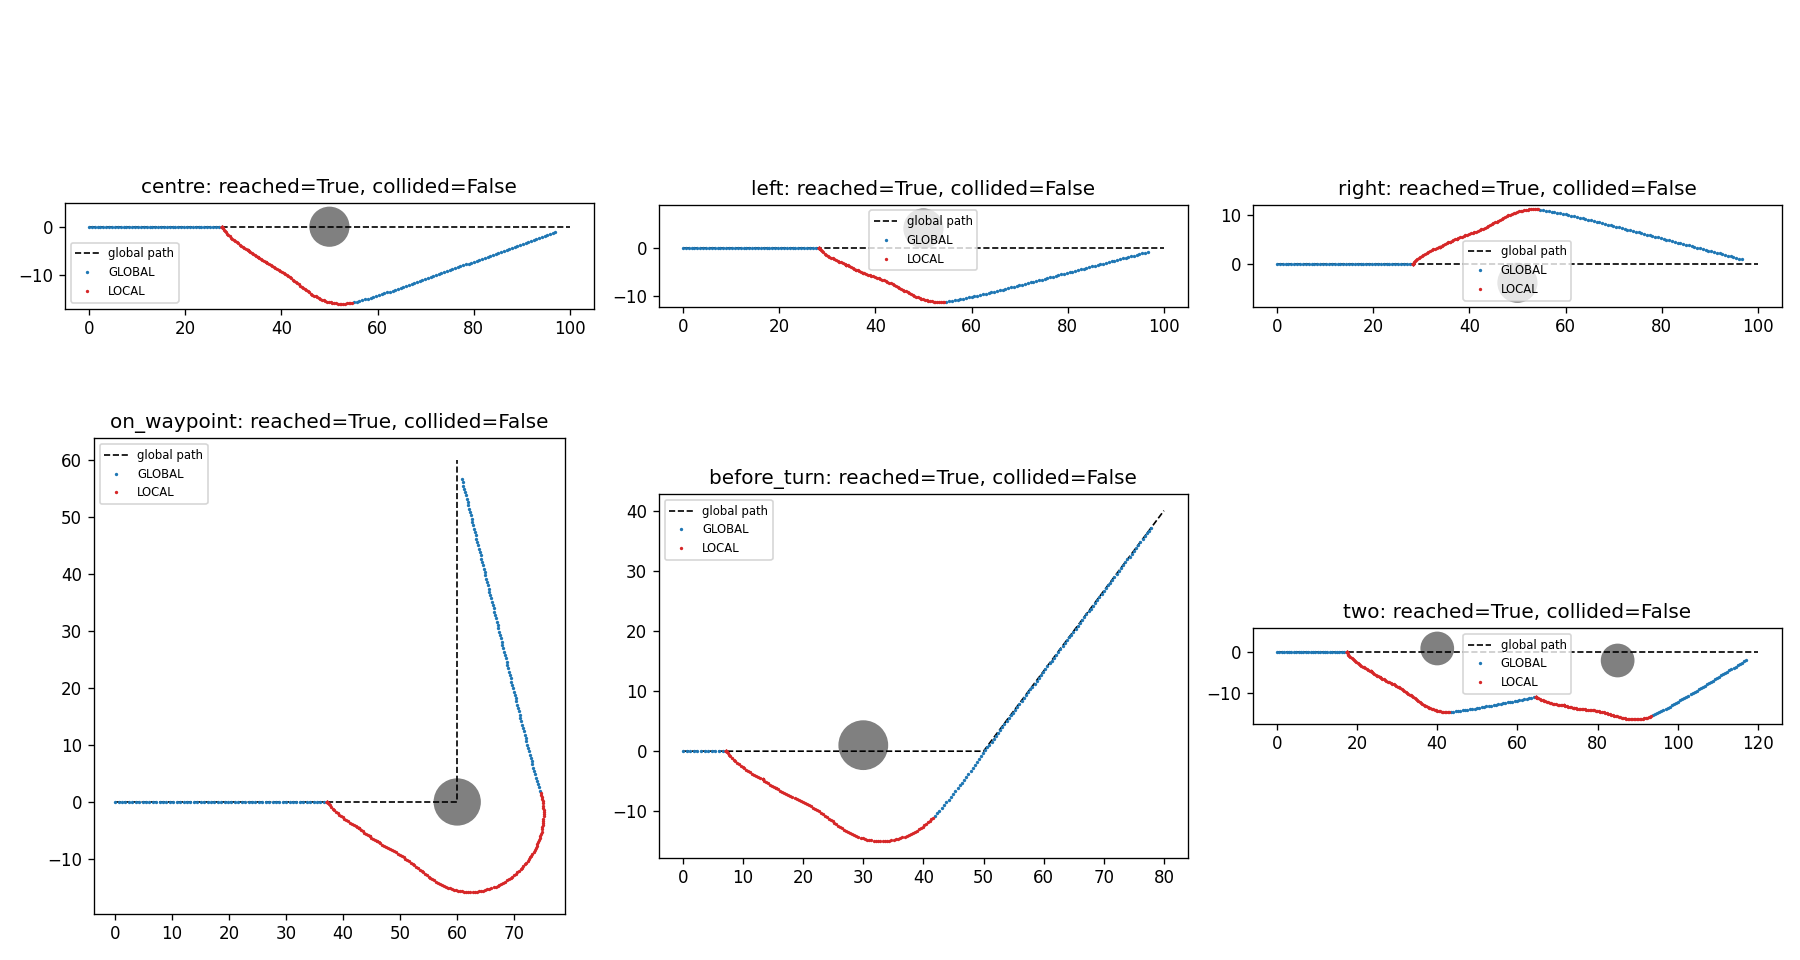
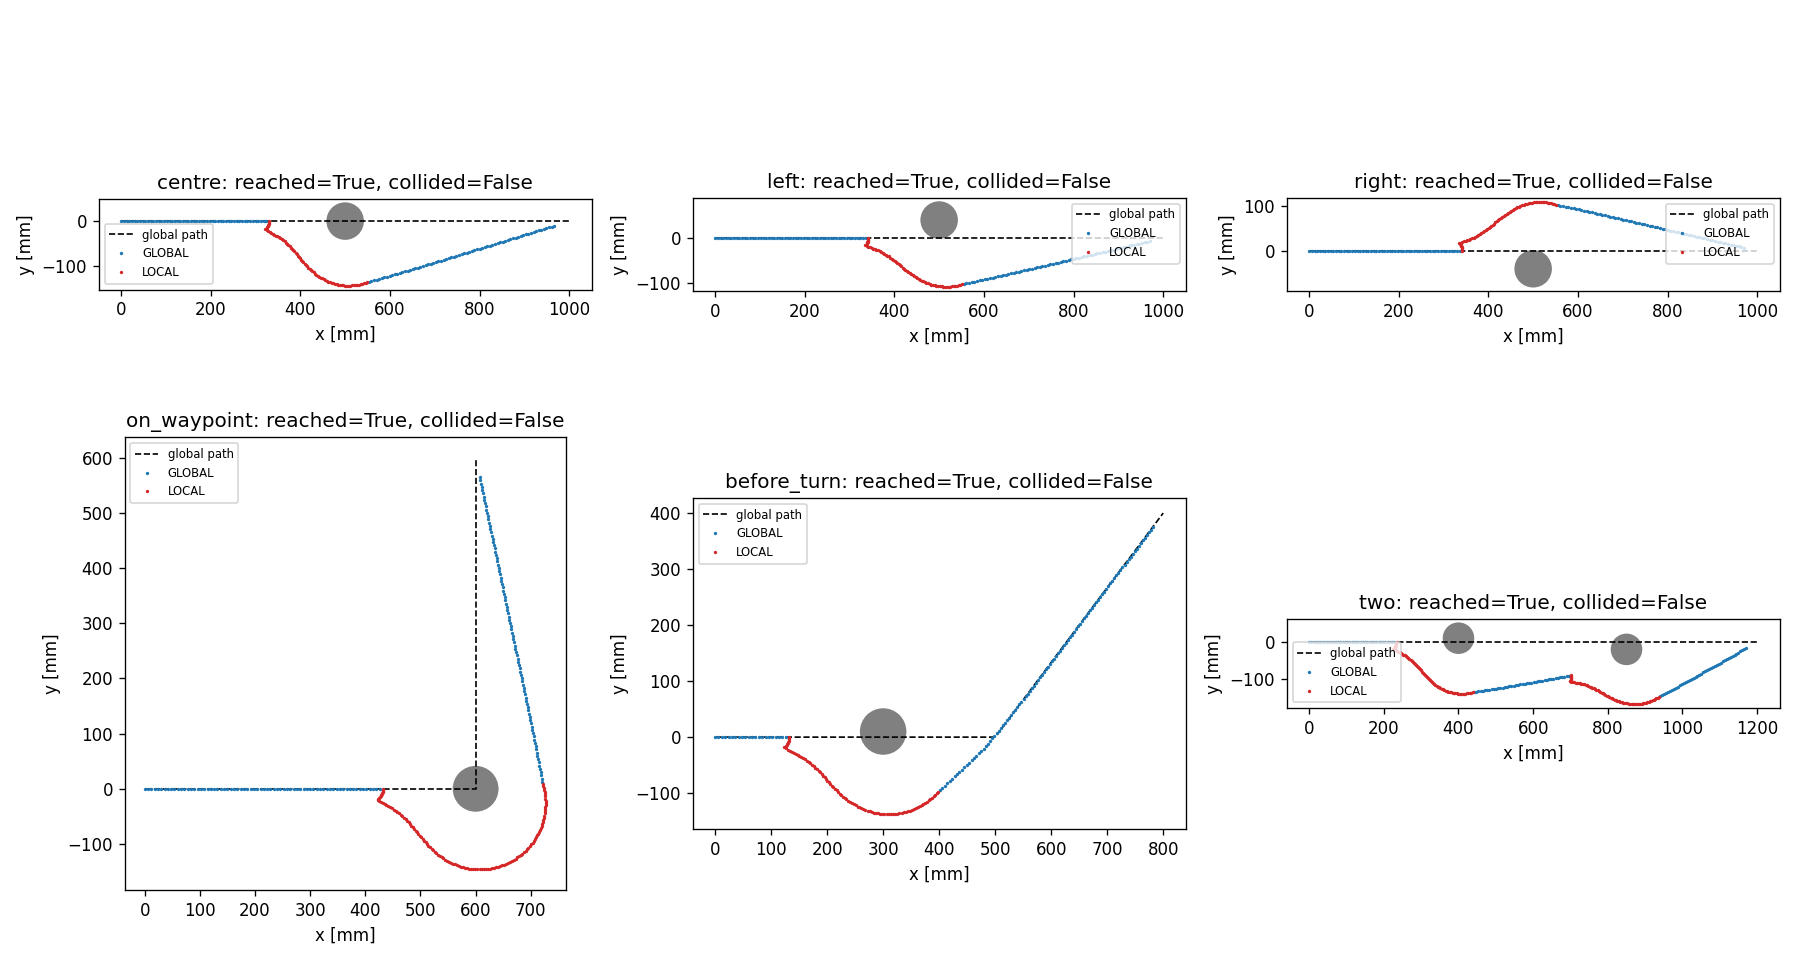
convert to mm and body-center pose

diff --git a/local_navigation/local_navigation_sim.py b/local_navigation/local_navigation_sim.py
@@ -2,13 +2,12 @@
 local_navigation_sim.py
 Tests local_navigation.py without the Thymio: a simulated robot with
 simulated proximity sensors drives along a path with circular obstacles.
+Units: mm and rad. The robot moves around its wheel axle, but the module
+receives the pose of the body centre, as given by vision.
 
 Run:  python local_navigation_sim.py
 It prints, for each scenario, whether the goal was reached and whether the
 robot touched an obstacle, then saves local_navigation_sim_results.png.
-
-The constants still set to ... in local_navigation.py are replaced by test
-values (TEST_VALUES below). Values you already measured are kept.
 """
 
 import math
@@ -18,36 +17,29 @@ import matplotlib.pyplot as plt
 import local_navigation as ln
 from local_navigation import LocalNavigation, next_waypoint_index, angle_to
 
-TEST_VALUES = {
-    "ENTER_THRESHOLD": 2000,
-    "EXIT_THRESHOLD": 1000,
-    "DANGER_THRESHOLD": 3500,
-    "MIN_LOCAL_STEPS": 5,
-    "OBSTACLE_RADIUS": 4.0,
-    "MARGIN": 3.0,
-    "TURN_SPEED": 100,
-    "ARC_SPEED": 100,
-}
-for name, value in TEST_VALUES.items():
-    if getattr(ln, name) is Ellipsis:
-        setattr(ln, name, value)
-
 DT = 0.1              # s, control period
-SPEED_TO_CMS = 0.04   # cm/s per motor unit
-WHEEL_BASE = 9.5      # cm
-SENSOR_RANGE = 13.0   # cm
+SPEED_TO_MMS = 0.4    # mm/s per motor unit
+WHEEL_BASE = 95.0     # mm
+AXLE_TO_CENTRE = 24.5 # mm, wheel axle -> body centre (forward)
+SENSOR_RANGE = 85.0   # mm, the prox reads 0 beyond
 
-# Front sensors: position (cm, robot frame, from the axle centre) and angle (deg)
-SENSOR_POSE = [(6.3, 4.0, 40), (7.4, 2.1, 20), (7.9, 0.0, 0),
-               (7.4, -2.1, -20), (6.3, -4.0, -40)]
-# Points of the robot outline, used to detect collisions
-OUTLINE = [(-3.0, 5.5), (-3.0, -5.5), (2.0, 5.5), (2.0, -5.5), (6.3, 4.0),
-           (7.4, 2.1), (7.9, 0.0), (7.4, -2.1), (6.3, -4.0), (-3.0, 0.0)]
+# Front sensors: position (mm, robot frame, from the axle centre) and angle (deg)
+SENSOR_POSE = [(63, 40, 40), (74, 21, 20), (79, 0, 0),
+               (74, -21, -20), (63, -40, -40)]
+# Points of the robot outline (mm, from the axle centre), used to detect collisions
+OUTLINE = [(-30, 55), (-30, -55), (20, 55), (20, -55), (63, 40),
+           (74, 21), (79, 0), (74, -21), (63, -40), (-30, 0)]
+
+
+def body_centre(axle_pose):
+    """Pose of the body centre from the pose of the axle centre."""
+    x, y, th = axle_pose
+    return (x + AXLE_TO_CENTRE * math.cos(th), y + AXLE_TO_CENTRE * math.sin(th), th)
 
 
 def sim_prox(pose, obstacles, rng=None):
-    """Simulated prox.horizontal: each sensor is a cone of 5 rays, the
-    closest hit is converted to a value with the calibration line."""
+    """Simulated prox.horizontal (pose = axle): each sensor is a cone of 5
+    rays, the closest hit is converted to a value with the calibration line."""
     x, y, th = pose
     values = [0] * 7
     for i, (sx, sy, sa) in enumerate(SENSOR_POSE):
@@ -75,7 +67,7 @@ def sim_prox(pose, obstacles, rng=None):
 
 
 def collides(pose, obstacles):
-    """True if a point of the robot outline is inside an obstacle."""
+    """True if a point of the robot outline is inside an obstacle (pose = axle)."""
     x, y, th = pose
     for bx, by in OUTLINE:
         px = x + bx * math.cos(th) - by * math.sin(th)
@@ -93,45 +85,48 @@ def motion_control(pose, waypoint):
 
 
 def run(path, obstacles, rng=None, t_max=90):
-    """Simulate one run. Returns (reached, collided, trajectory)."""
+    """Simulate one run. path[0] is the start of the body centre.
+    Returns (reached, collided, trajectory of the body centre)."""
     nav = LocalNavigation()
-    pose = [path[0][0], path[0][1], 0.0]
+    axle = [path[0][0] - AXLE_TO_CENTRE, path[0][1], 0.0]
     index = 1
     collided = False
     traj = []
     for _ in range(int(t_max / DT)):
+        pose = body_centre(axle)
         index = next_waypoint_index(path, index, pose,
                                     avoiding=(nav.state == "LOCAL"))
-        if index == len(path) - 1 and math.dist(pose[:2], path[-1]) < 3:
+        if index == len(path) - 1 and math.dist(pose[:2], path[-1]) < 30:
             return True, collided, traj
         if rng is None:
-            measured = tuple(pose)
+            measured = pose
         else:                                   # noisy pose from the "filter"
-            measured = (pose[0] + rng.normal(0, 0.7),
-                        pose[1] + rng.normal(0, 0.7),
+            measured = (pose[0] + rng.normal(0, 7),
+                        pose[1] + rng.normal(0, 7),
                         pose[2] + rng.normal(0, 0.05))
-        state, left, right = nav.update(sim_prox(pose, obstacles, rng),
+        state, left, right = nav.update(sim_prox(axle, obstacles, rng),
                                         measured, path[index])
         if state == "GLOBAL":
             left, right = motion_control(pose, path[index])
         traj.append((pose[0], pose[1], state))
 
-        left, right = np.clip([left, right], -500, 500) * SPEED_TO_CMS
+        left, right = np.clip([left, right], -500, 500) * SPEED_TO_MMS
         v, w = (left + right) / 2, (right - left) / WHEEL_BASE
-        pose[0] += v * math.cos(pose[2]) * DT
-        pose[1] += v * math.sin(pose[2]) * DT
-        pose[2] += w * DT
-        collided |= collides(pose, obstacles)
+        axle[0] += v * math.cos(axle[2]) * DT
+        axle[1] += v * math.sin(axle[2]) * DT
+        axle[2] += w * DT
+        collided |= collides(axle, obstacles)
     return False, collided, traj
 
 
+R_OBS = ln.OBSTACLE_RADIUS
 SCENARIOS = {
-    "centre":      ([(0, 0), (100, 0)], [(50, 0, 4)]),
-    "left":        ([(0, 0), (100, 0)], [(50, 4, 4)]),
-    "right":       ([(0, 0), (100, 0)], [(50, -4, 4)]),
-    "on_waypoint": ([(0, 0), (60, 0), (60, 60)], [(60, 0, 4)]),
-    "before_turn": ([(0, 0), (50, 0), (80, 40)], [(30, 1, 4)]),
-    "two":         ([(0, 0), (120, 0)], [(40, 1, 4), (85, -2, 4)]),
+    "centre":      ([(0, 0), (1000, 0)], [(500, 0, R_OBS)]),
+    "left":        ([(0, 0), (1000, 0)], [(500, 40, R_OBS)]),
+    "right":       ([(0, 0), (1000, 0)], [(500, -40, R_OBS)]),
+    "on_waypoint": ([(0, 0), (600, 0), (600, 600)], [(600, 0, R_OBS)]),
+    "before_turn": ([(0, 0), (500, 0), (800, 400)], [(300, 10, R_OBS)]),
+    "two":         ([(0, 0), (1200, 0)], [(400, 10, R_OBS), (850, -20, R_OBS)]),
 }
 
 if __name__ == "__main__":
@@ -147,13 +142,14 @@ if __name__ == "__main__":
             if pts:
                 ax.plot(*zip(*pts), ".", ms=2, color=colour, label=state)
         ax.set_title(f"{name}: reached={reached}, collided={collided}")
+        ax.set_xlabel("x [mm]"); ax.set_ylabel("y [mm]")
         ax.set_aspect("equal")
         ax.legend(fontsize=7)
     fig.tight_layout()
     fig.savefig("local_navigation_sim_results.png", dpi=120)
 
     rng = np.random.default_rng(1)
-    results = [run([(0, 0), (100, 0)], [(50, rng.uniform(-6, 6), 4)], rng)
+    results = [run([(0, 0), (1000, 0)], [(500, rng.uniform(-60, 60), R_OBS)], rng)
                for _ in range(40)]
     print("40 noisy runs: reached", sum(r[0] for r in results),
           "collisions", sum(r[1] for r in results))

diff --git a/local_navigation/local_navigation.py b/local_navigation/local_navigation.py
@@ -6,30 +6,32 @@ States: GLOBAL (follow the path) <-> LOCAL (go around the obstacle)
 
 import math
 
-ENTER_THRESHOLD = 2100     # prox value at ~10 cm -> switch to LOCAL
+ENTER_THRESHOLD = 2100     # prox value at ~75 mm -> switch to LOCAL
 EXIT_THRESHOLD = 1000      # lower than ENTER_THRESHOLD (hysteresis)
-DANGER_THRESHOLD = 3500    # very close -> turn on the spot
-MIN_LOCAL_STEPS = 5     # minimum number of steps spent in LOCAL
+DANGER_THRESHOLD = 3500    # ~40 mm -> turn on the spot
+MIN_LOCAL_STEPS = 5        # minimum number of steps spent in LOCAL
 
-OBSTACLE_RADIUS = 4.0     # cm
-ROBOT_HALF_WIDTH = 5.5    # cm
-MARGIN = 2.0              # cm
+OBSTACLE_RADIUS = 40.0     # mm
+ROBOT_HALF_WIDTH = 56.0    # mm, body centre -> side
+MARGIN = 20.0              # mm
 
-TURN_SPEED = 100          # motor units, TURN_AWAY phase
-ARC_SPEED = 100           # motor units, ARC phase
+TURN_SPEED = 100           # motor units, TURN_AWAY phase
+ARC_SPEED = 100            # motor units, ARC phase
 
-REACH_RADIUS = 3.0        # cm
+REACH_RADIUS = 30.0        # mm
 
-K_RADIAL = 0.25                    # rad/cm
+K_RADIAL = 0.025                   # rad/mm
 MAX_CORRECTION = math.radians(60)  # rad
 K_HEADING = 120                    # motor units/rad
 W_MAX = 150                        # motor units
 
 SENSOR_ANGLES_DEG = [40, 20, 0, -20, -40]  # sensors 0..4, + = left
-SENSOR_OFFSET = 8.0                        # cm, axle centre -> front sensors
+SENSOR_OFFSET = 55.0                       # mm, body centre -> front sensors (TODO: measure)
 MEASURE_THRESHOLD = 1900
-PROX_A = -396.05                           # value = PROX_A * d + PROX_B
+PROX_A = -39.605                           # value = PROX_A * d + PROX_B, d in mm
 PROX_B = 5105.4
+PROX_MIN_MM = 35.0                         # valid range of the calibration
+PROX_MAX_MM = 85.0
 
 
 class LocalNavigation:
@@ -49,8 +51,8 @@ class LocalNavigation:
         """Run one control step. Called at every loop iteration by the main.
 
         prox        : list of 7 values (prox.horizontal)
-        pose        : (x, y, theta) from the filter
-        waypoint    : (x, y) current target of the global path
+        pose        : (x, y, theta) from the filter, mm and rad, body centre
+        waypoint    : (x, y) current target of the global path, mm
         map_is_free : function (x, y) -> bool given by global navigation
         returns     : (state, left_speed, right_speed),
                       speeds are None when state == "GLOBAL"
@@ -206,10 +208,10 @@ def wrap_angle(a):
 
 
 def prox_to_distance(value):
-    """Convert a raw proximity value into a distance [cm] with the
+    """Convert a raw proximity value into a distance [mm] with the
     calibration, limited to the sensor range."""
     d = (value - PROX_B) / PROX_A
-    return min(max(d, 3.5), 8.5)
+    return min(max(d, PROX_MIN_MM), PROX_MAX_MM)
 
 
 def estimate_obstacle_centre(prox, pose):
